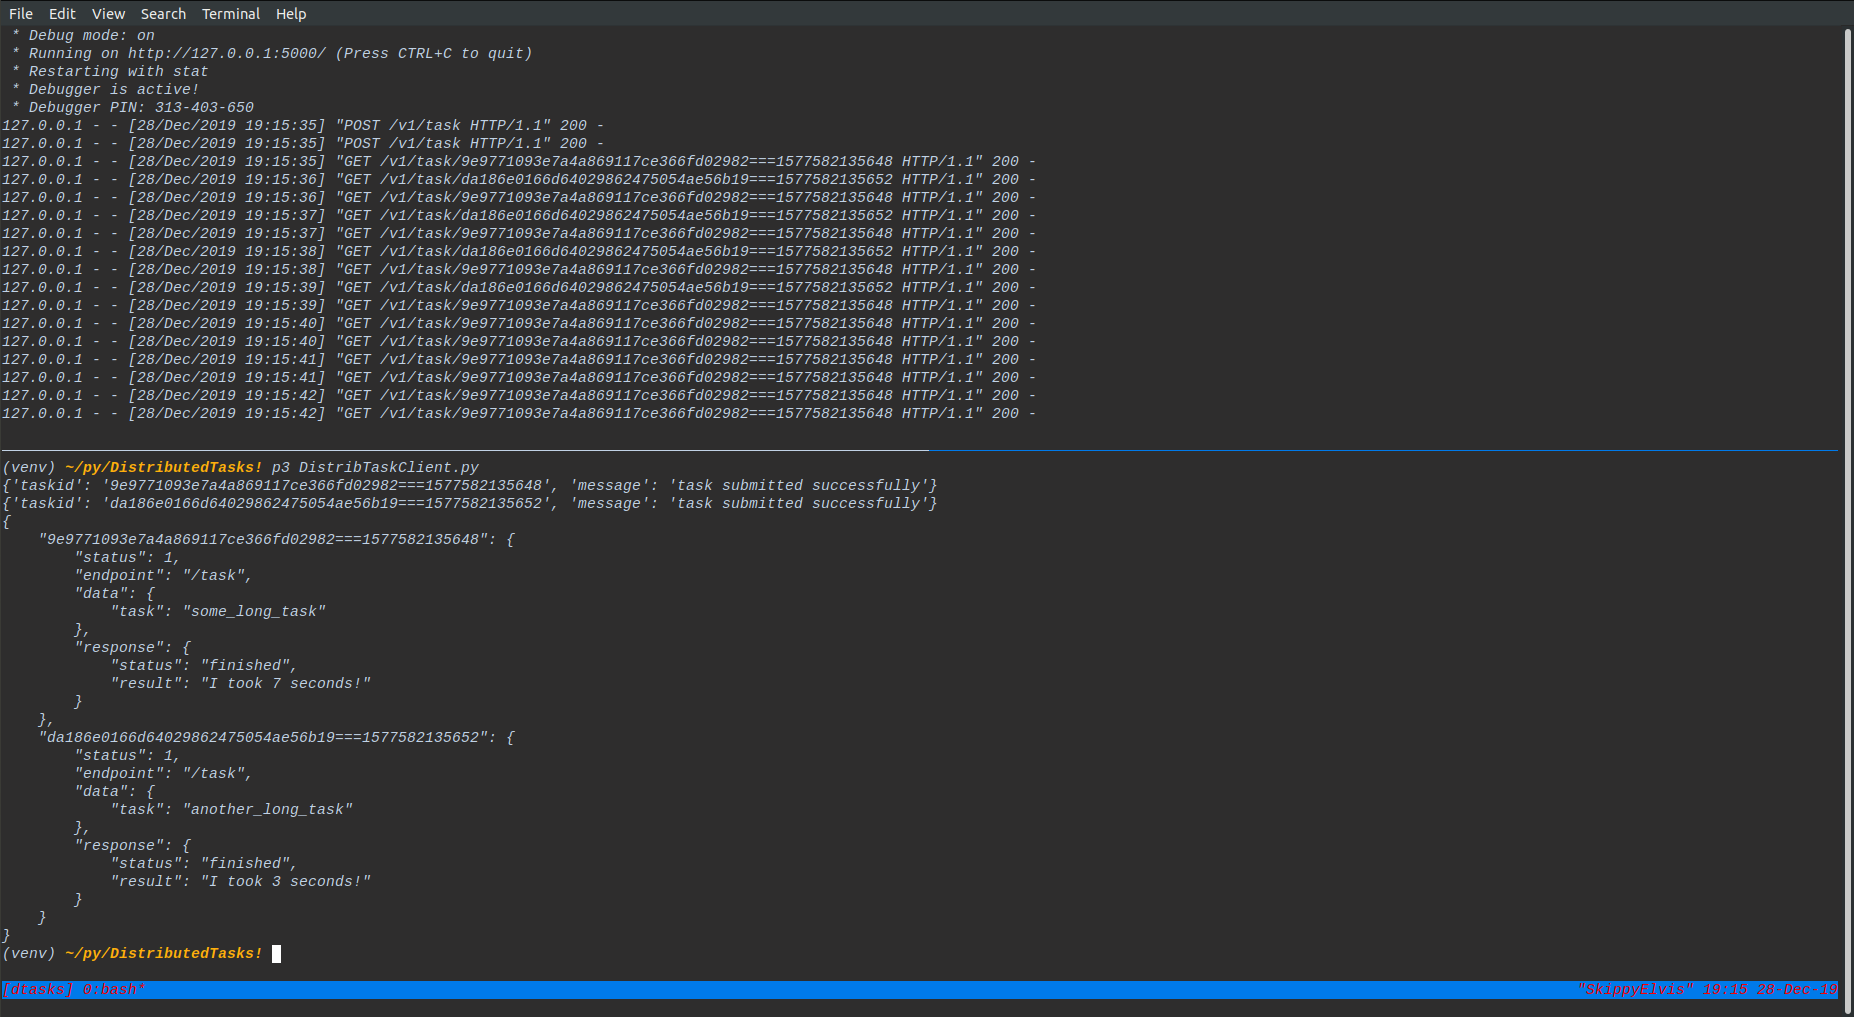
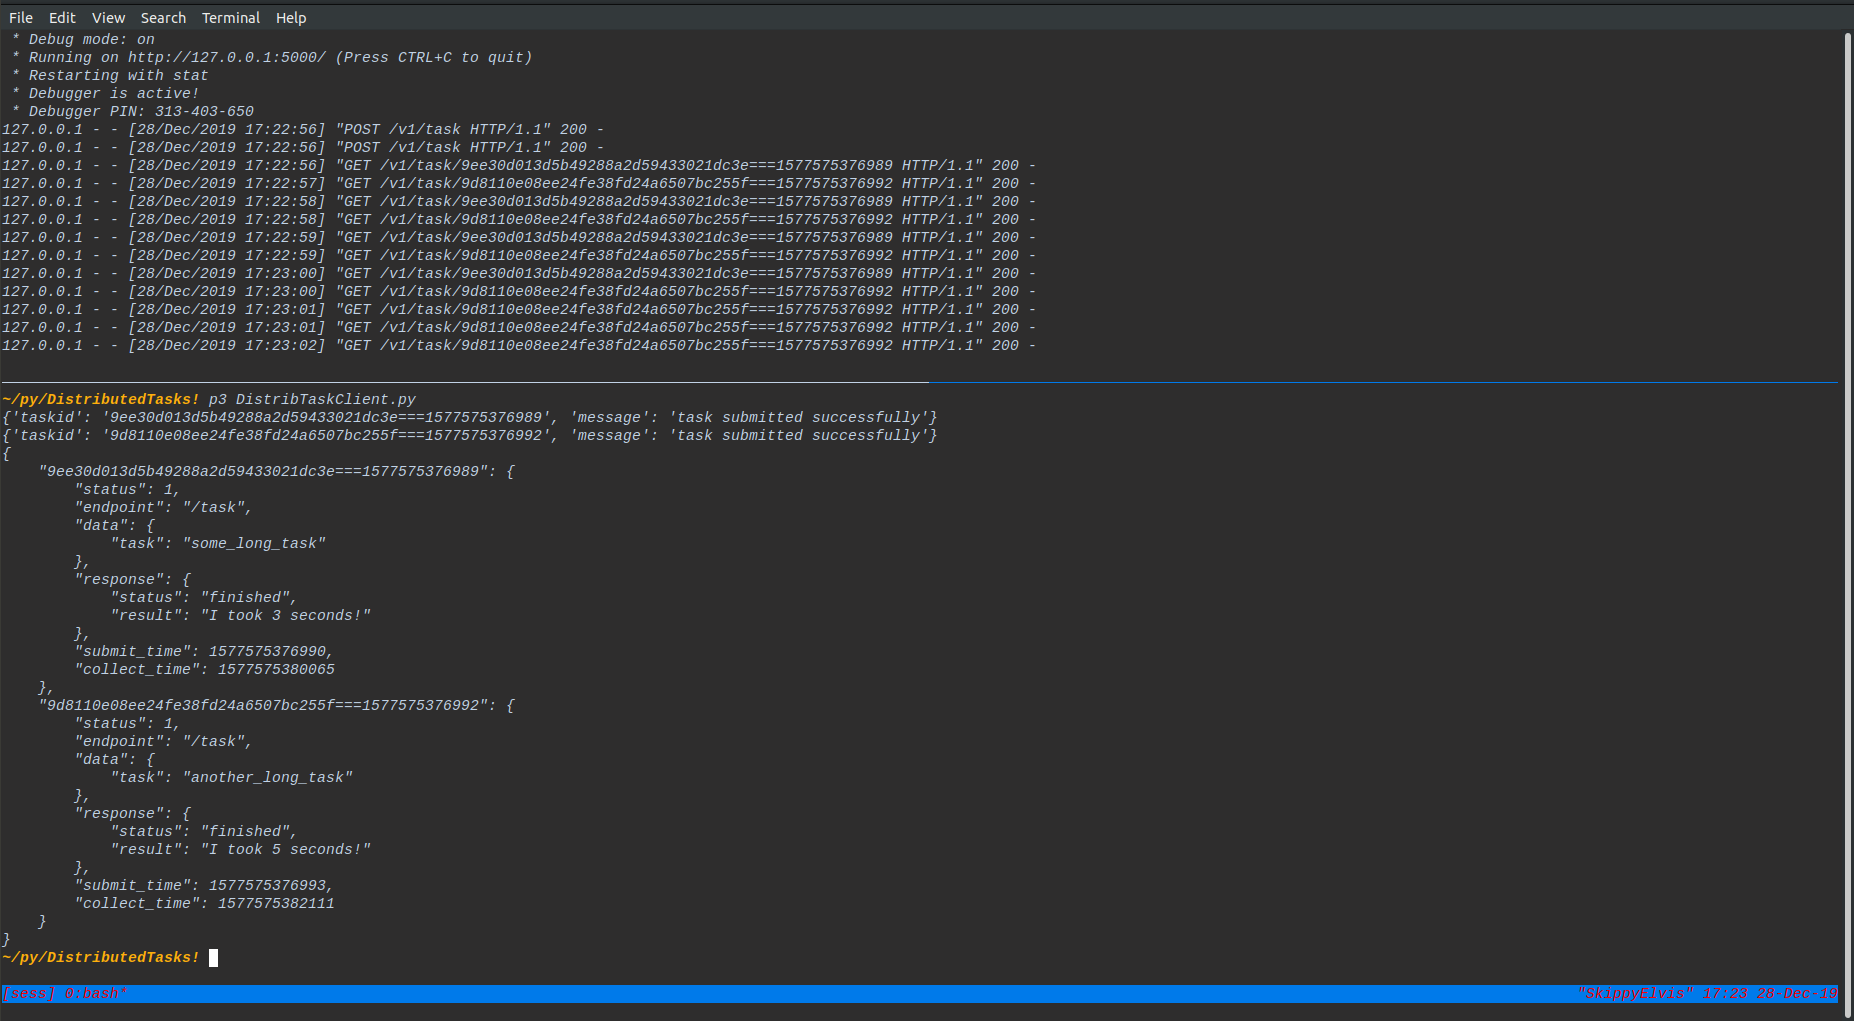
update

Changed region(s): [[0.0, 0.0, 0.5534, 0.884], [0.0, 0.9145, 0.1537, 0.9754], [0.9223, 0.9449, 0.9531, 0.9754]]

diff --git a/DistribTaskClient.py b/DistribTaskClient.py
@@ -37,7 +37,9 @@ class DistribTaskClient:
             'status': statuses['submitted'],
             'endpoint': endpoint,
             'data': None if not args[0] else args[0],
-            'response': None
+            'response': None,
+            'submit_time': int(time.time() * 1000),
+            'collect_time': -1
         }
         return 1
 
@@ -54,6 +56,7 @@ class DistribTaskClient:
                         self.counts['collected'] += 1
                         self.tasks[taskid]['status'] = statuses['collected']
                         self.tasks[taskid]['response'] = req
+                        self.tasks[taskid]['collect_time'] = int(time.time() * 1000)
                     time.sleep(0.5)
 
 
